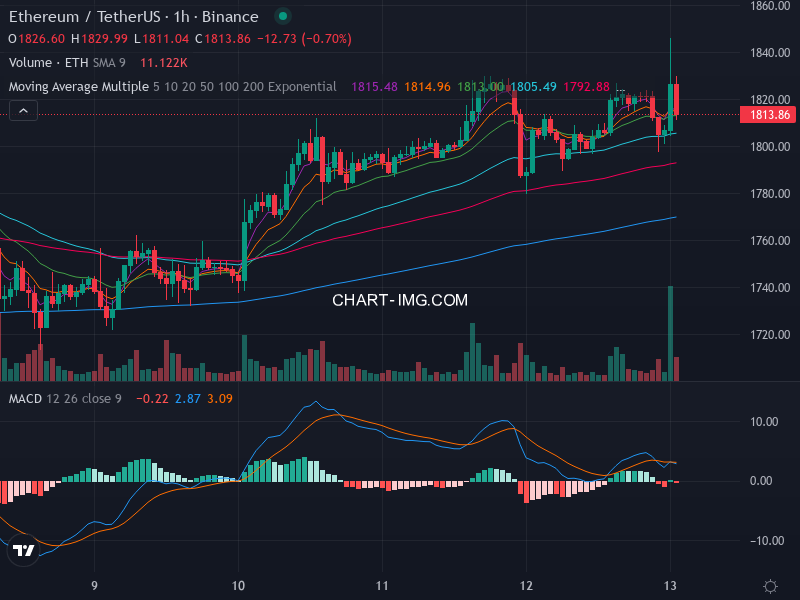
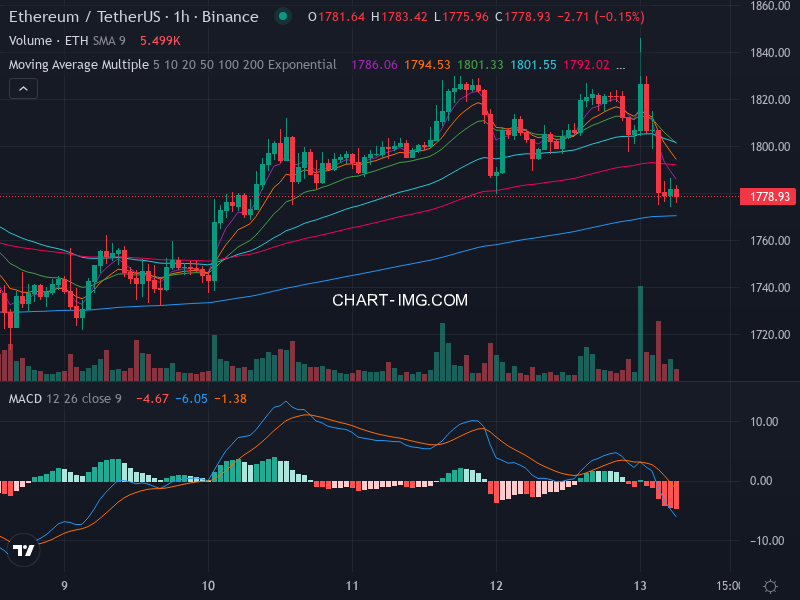
Update chart and timestamp

diff --git a/README.md b/README.md
@@ -5,7 +5,7 @@
 
 ## 最新技術分析圖表 (Latest Analysis)
 ![Latest Chart](latest_chart.png)  
-*Last Analysis: 2026-07-13 02:04:39 UTC*
+*Last Analysis: 2026-07-13 06:49:18 UTC*
 
 ## 主要功能
 - **自動繪圖**: 整合 `chart-img.com` API 繪製包含 EMA 與 MACD 指標的專業線圖（深色主題）。